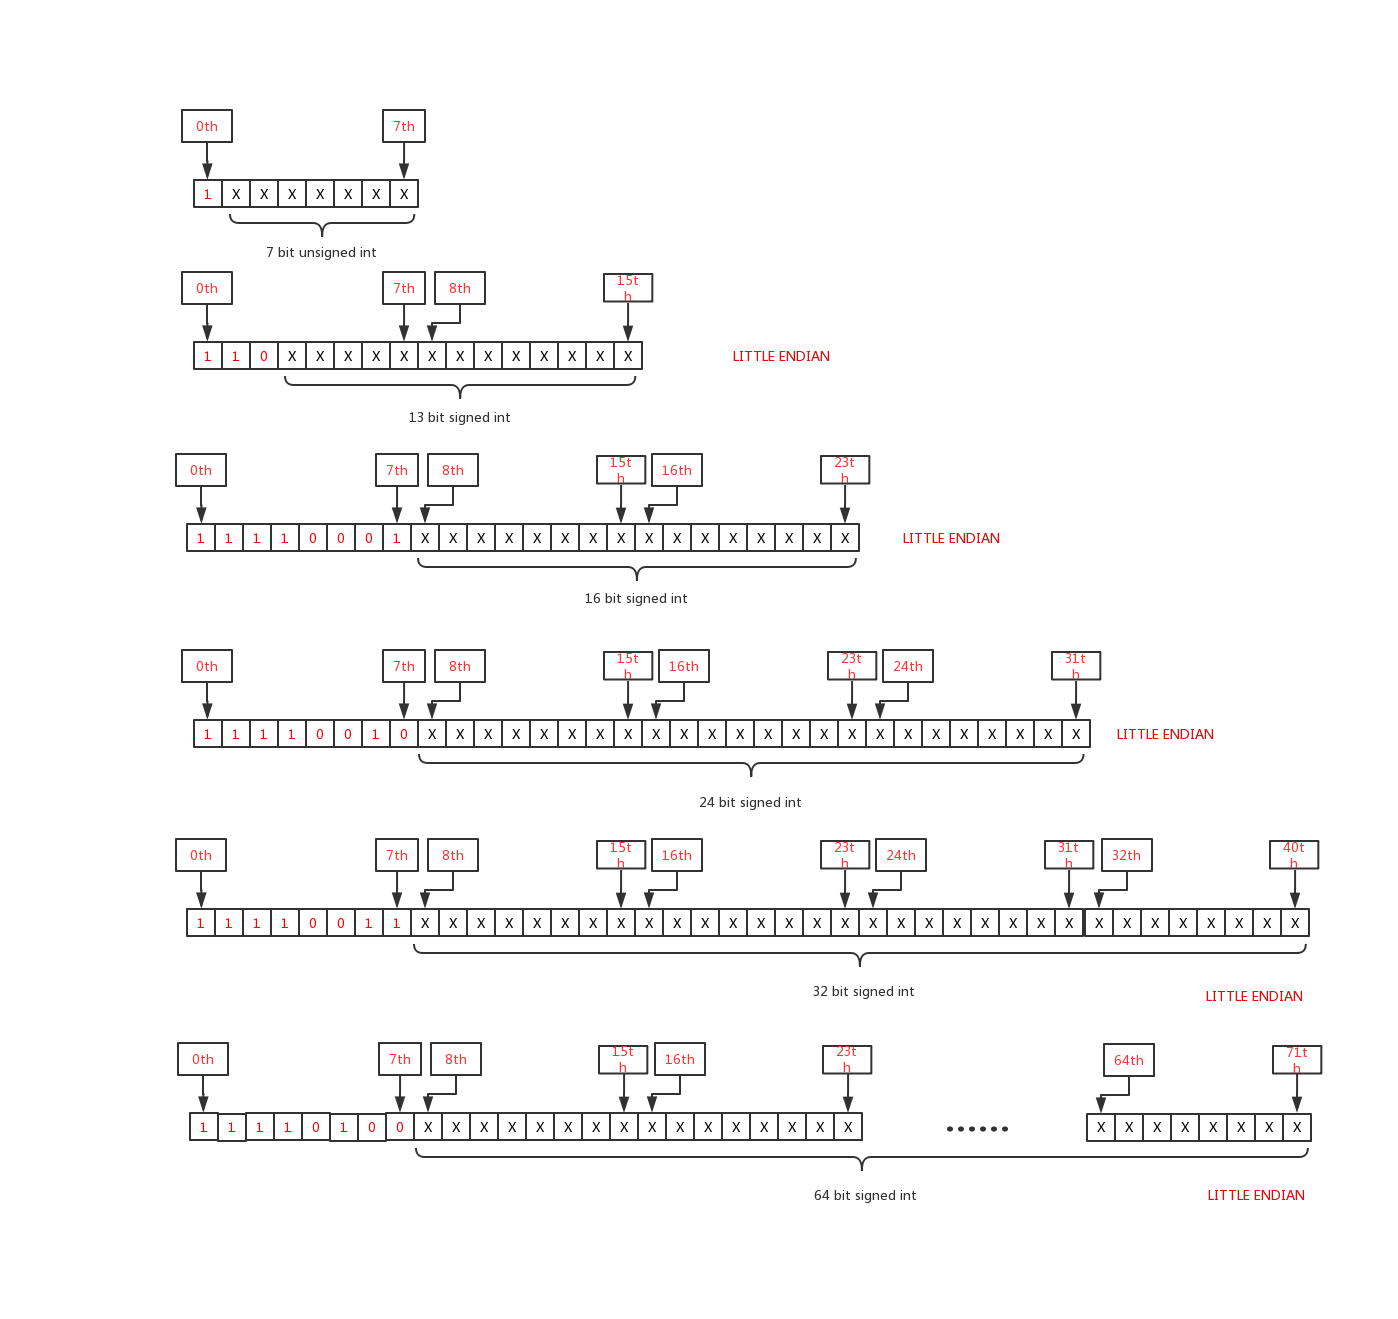
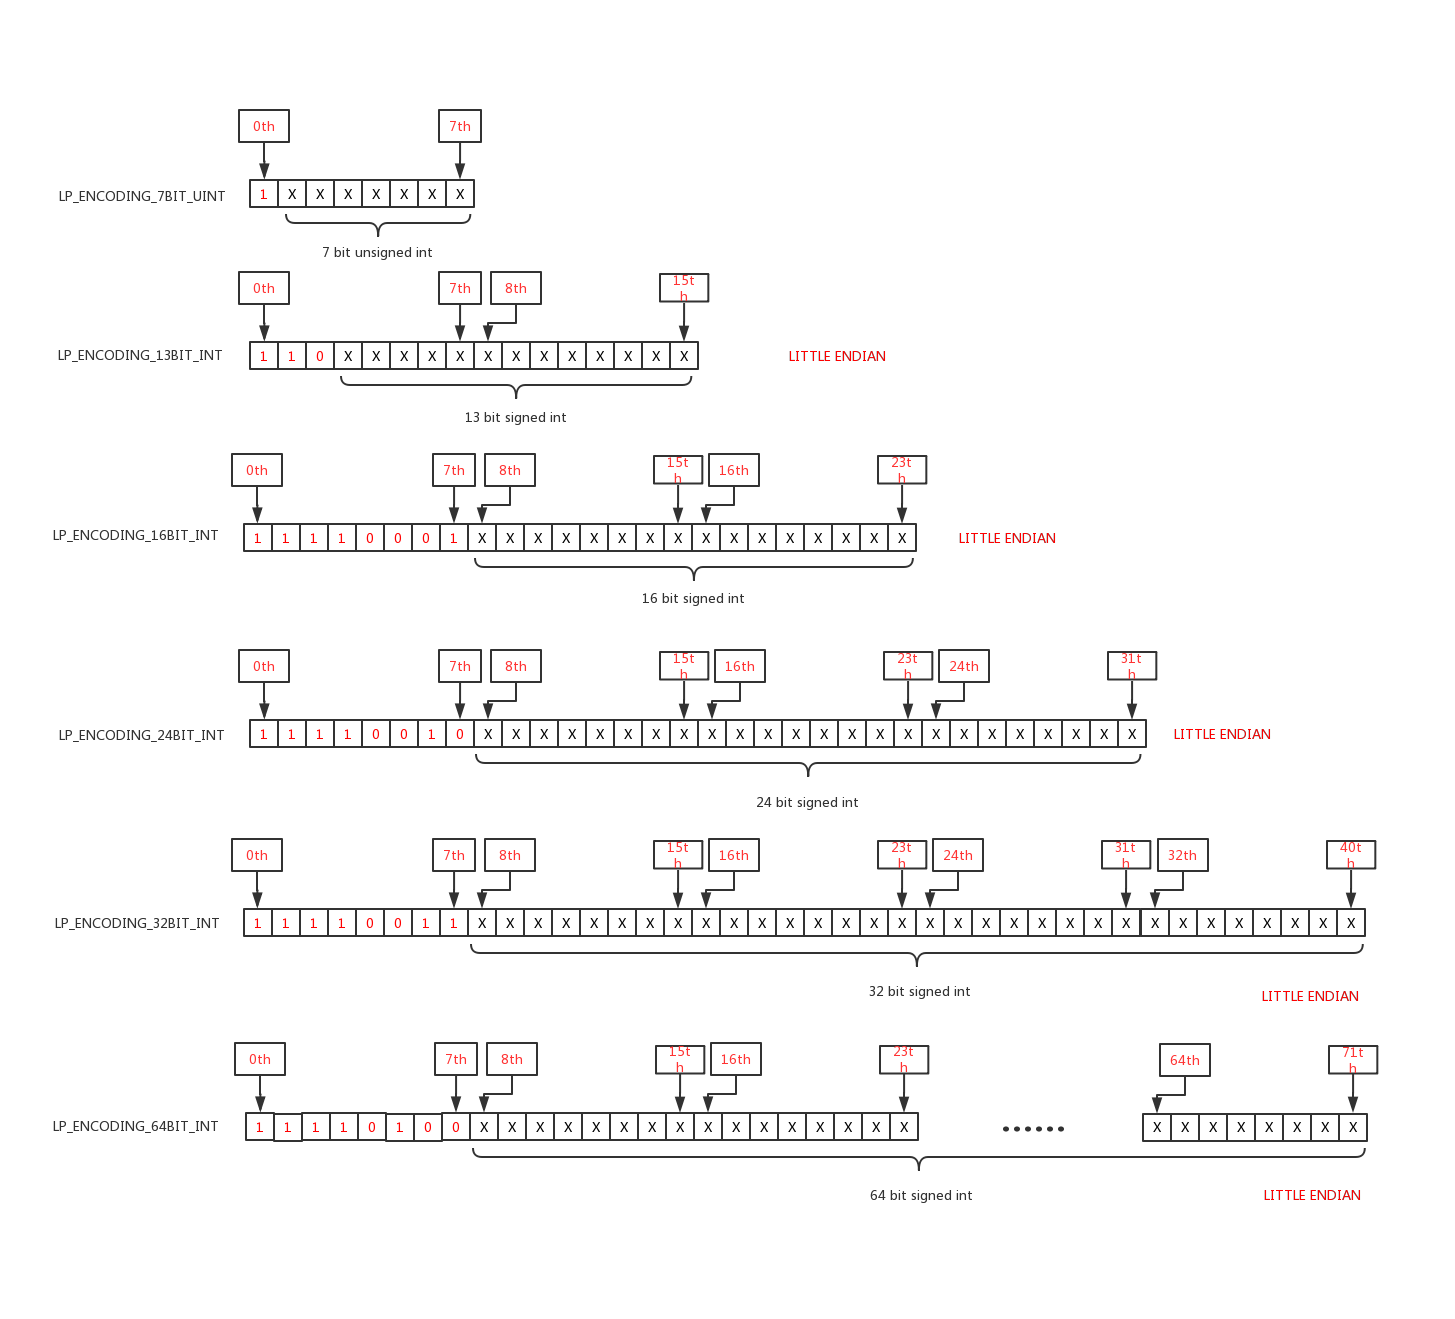
listpack v0.9

diff --git a/Object/listpack/listpack.md b/Object/listpack/listpack.md
@@ -117,7 +117,7 @@ Currently, we just focus on how **listpack** stores different types of elements 
 
 ## back length
 
-Every element stores inside the **listpack** compose of two parts, the first part is the real element, the second part is the size the current elements occupies in bytes, so that you are able to traverse backward from the **listpack**, the actual size of **back length** varies depends on the size
+Every element stores inside the **listpack** compose of two parts, the first part is the real element, the second part is the size the current elements occupies in bytes, so that you are able to traverse backward from the **listpack**, the actual size of **back length** varies depends on the number it represents
 
 If **back length** is 1
 
@@ -131,7 +131,7 @@ If **back length** is 128
 
 ![backlength_128](https://github.com/zpoint/Redis-Internals/blob/5.0/Object/listpack/backlength_128.png)
 
-If **back length** is 16384(actually the maximum number of bytes **back length** can take is 5)
+If **back length** is 16384(actually the maximum number of bytes **back length** can occupy is 5)
 
 ![backlength_16384](https://github.com/zpoint/Redis-Internals/blob/5.0/Object/listpack/backlength_16384.png)
 
@@ -169,13 +169,21 @@ When you type the **xadd** command, the **key** and **value** are both transmitt
 
 After the conversion, the actual encoding varies
 
-
+![LP_ENCODING_INT](https://github.com/zpoint/Redis-Internals/blob/5.0/Object/listpack/LP_ENCODING_INT.png)
 
 ## string
 
+If the conversion to string failed, the **string**(characters) will be stored inside directly, with some header bytes stores the length of the **string**
 
+![LP_ENCODING_STR](https://github.com/zpoint/Redis-Internals/blob/5.0/Object/listpack/LP_ENCODING_STR.png)
+
+Let's see an example `key1`
+
+![LP_ENCODING_STR_KEY1](https://github.com/zpoint/Redis-Internals/blob/5.0/Object/listpack/LP_ENCODING_STR_KEY1.png)
+
+Now, we understand the header of each element in the diagram in [overview](#overview)
 
 # read more
 
-[Listpack README](https://github.com/antirez/listpack)
-[Three Optimization Tips for C++](https://www.facebook.com/notes/facebook-engineering/three-optimization-tips-for-c/10151361643253920)
+* [Listpack README](https://github.com/antirez/listpack)
+* [Three Optimization Tips for C++](https://www.facebook.com/notes/facebook-engineering/three-optimization-tips-for-c/10151361643253920)

diff --git a/README.md b/README.md
@@ -26,7 +26,7 @@ This repository is my notes for [redis](https://github.com/antirez/redis) source
  - [x] [hyperloglog](https://github.com/zpoint/Redis-Internals/blob/5.0/Object/hyperloglog/hyperloglog.md)
  - [ ] [streams](https://github.com/zpoint/Redis-Internals/blob/5.0/Object/streams/streams.md)
  	- [x] [rax](https://github.com/zpoint/Redis-Internals/blob/5.0/Object/rax/rax.md)
- 	- [ ] [listpack](https://github.com/zpoint/Redis-Internals/blob/5.0/Object/listpack/listpack.md)
+ 	- [x] [listpack](https://github.com/zpoint/Redis-Internals/blob/5.0/Object/listpack/listpack.md)
 
 # Server
 - persistence
